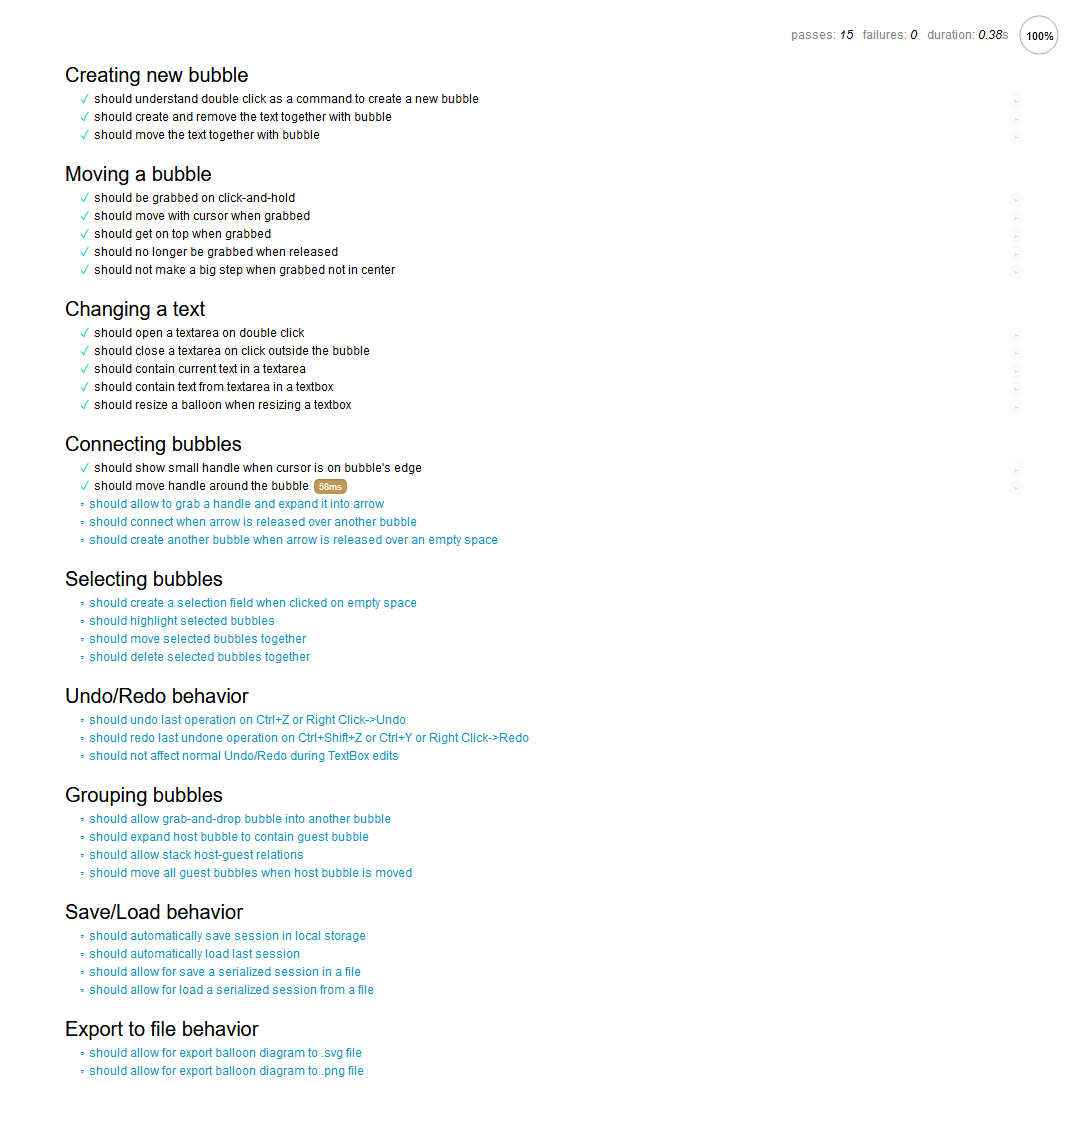
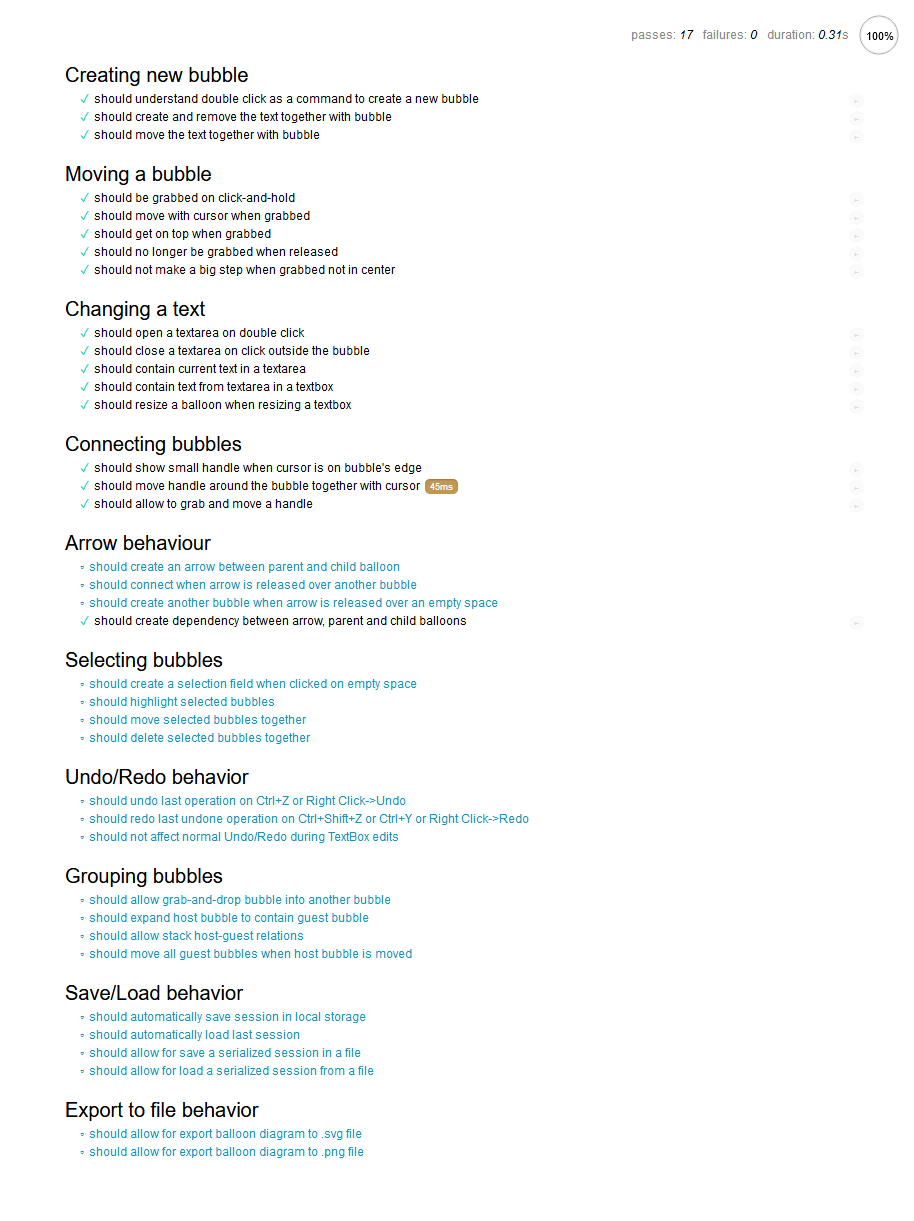
Removed imports, added arrow test

Changed region(s): [[0.0613, 0.0614, 0.5821, 0.9518], [0.7046, 0.0, 0.9803, 0.0614]]

diff --git a/test/test.js b/test/test.js
@@ -1,7 +1,4 @@
-//$.getScript('./script/main.js');
-//$.getScript('./script/space.js');
-
-$(document).scrollTop(0); //tests fail when scrolled down
+$(document).scrollTop(0); //tests fail when scrolled down
 
 var [x0, y0] = Space.screenPoint(250, 300);
 var [xx0, yy0] = Space.screenPoint(300, 50);
@@ -13,7 +10,7 @@ describe('Creating new bubble',
             () => {
                 Mouse.doubleclick(x0, y0);
                 (Balloons.getLast()).should.not.equal(null);
-                Balloons.removeLast();
+                Space.clear();
             });
 
         it('should create and remove the text together with bubble',
@@ -23,6 +20,7 @@ describe('Creating new bubble',
                 b.fO.should.not.equal(null);
                 Balloons.removeLast();
                 (b.fO == null).should.equal(true);
+                Space.clear();
             });
 
         it('should move the text together with bubble',
@@ -35,7 +33,7 @@ describe('Creating new bubble',
                 var x1 = b.fO.getAttribute('x'),
                     y1 = b.fO.getAttribute('y');
 
-                var [x3, y3, z3, t3] = b.rect();
+                var [x3, y3, ,] = b.rect();
 
                 Mouse.click(x0, y0);
                 Mouse.move(x0 + dx, y0 + dy);
@@ -43,7 +41,7 @@ describe('Creating new bubble',
                 var x2 = b.fO.getAttribute('x'),
                     y2 = b.fO.getAttribute('y');
 
-                var [x4, y4, z4, t4] = b.rect();
+                var [x4, y4, ,] = b.rect();
 
                 x1 = parseFloat(x1);
                 y1 = parseFloat(y1);
@@ -52,6 +50,7 @@ describe('Creating new bubble',
 
                 (x2 - x1).should.equal(x4 - x3);
                 (y2 - y1).should.equal(y4 - y3);
+                Space.clear();
             });
     });
 
@@ -63,7 +62,7 @@ describe('Moving a bubble',
                 Mouse.click(x0, y0);
 
                 Balloons.getLast().isGrabbed().should.equal(true);
-                Balloons.removeLast();
+                Space.clear();
             });
 
         it('should move with cursor when grabbed',
@@ -84,7 +83,7 @@ describe('Moving a bubble',
                 (x2).should.not.equal(x3);
                 (y2).should.not.equal(y3);
 
-                Balloons.removeLast();
+                Space.clear();
             });
 
         it('should get on top when grabbed',
@@ -103,9 +102,7 @@ describe('Moving a bubble',
 
                 var x2 = b2.div.attr('x');
                 x1.should.equal(x2);
-
-                Balloons.removeLast();
-                Balloons.removeLast();
+                Space.clear();
             });
 
         it('should no longer be grabbed when released',
@@ -119,31 +116,25 @@ describe('Moving a bubble',
                 var x1 = b1.div.attr('x');
                 x0.should.equal(x1);
                 b1.isGrabbed().should.equal(false);
+                Space.clear();
             });
 
         it('should not make a big step when grabbed not in center',
             () => {
                 while (Balloons.balloonsList.length > 0) Balloons.removeLast();
-
                 var b1 = Balloons.addBalloon(x0, y0);
                 var x1 = b1.div.attr('x');
-
                 Mouse.click(x0, y0);
                 Mouse.move(x0 + 50, y0);
                 Mouse.release(x0 + 50, y0);
                 var x2 = b1.div.attr('x');
-
                 var dx = 10;
-
                 Mouse.click(x0 + 50 + dx, y0);
                 Mouse.move(x0 + 100 + dx, y0);
                 var x3 = b1.div.attr('x');
-
                 var dx1 = x2 - x1, dx2 = x3 - x2;
-
                 (Math.abs(dx1 - dx2) < 5).should.equal(true);
-
-                Balloons.removeLast();
+                Space.clear();
             });
     });
 
@@ -156,7 +147,7 @@ describe('Changing a text',
                 Balloons.addBalloon(x0, y0);
                 Mouse.doubleclick(x0, y0);
                 (currentTextareaBalloon).should.not.equal(null);
-                Balloons.removeLast();
+                Space.clear();
             });
 
         it('should close a textarea on click outside the bubble',
@@ -166,7 +157,7 @@ describe('Changing a text',
                 (currentTextareaBalloon).should.not.equal(null);
                 Mouse.click(x0 + 200, y0);
                 (currentTextareaBalloon == null).should.equal(true);
-                Balloons.removeLast();
+                Space.clear();
             });
 
         it('should contain current text in a textarea',
@@ -175,7 +166,7 @@ describe('Changing a text',
                 b.fO.innerHTML = 'abc';
                 Mouse.doubleclick(x0, y0);
                 (currentTextareaBalloon.fO.childNodes[0].innerHTML).should.equal('abc');
-                Balloons.removeLast();
+                Space.clear();
             });
 
         it('should contain text from textarea in a textbox',
@@ -185,7 +176,7 @@ describe('Changing a text',
                 currentTextareaBalloon.fO.childNodes[0].innerHTML = 'abc';
                 Mouse.click(x0 + 200, y0);
                 b.fO.childNodes[0].innerHTML.should.equal('abc');
-                Balloons.removeLast();
+                Space.clear();
             });
 
         it('should resize a balloon when resizing a textbox',
@@ -198,7 +189,7 @@ describe('Changing a text',
                 currentTextareaBalloon.fO.dispatchEvent(event);
                 var w2 = b.w();
                 (w1 < w2).should.equal(true);
-                Balloons.removeLast();
+                Space.clear();
             });
     });
 
@@ -211,7 +202,7 @@ describe('Connecting bubbles',
                 Mouse.move(x0 + 60, y0 + 130);
                 Space.showHandle();
                 ($('#handle')[0].id === 'handle').should.equal(true);
-                Balloons.removeLast();
+                Space.clear();
             });
 
         it('should move handle around the bubble together with cursor',
@@ -228,8 +219,7 @@ describe('Connecting bubbles',
                 var x2 = parseFloat($('#handle')[0].getAttribute('x'));
 
                 (x1 > x2).should.equal(true);
-
-                Balloons.removeLast();
+                Space.clear();
             });
 
         it('should allow to grab and move a handle',
@@ -246,13 +236,35 @@ describe('Connecting bubbles',
                 var [x2, y2] = handle.getXY();
                 x.should.not.equal(x2);
                 y.should.not.equal(y2);
+                Space.clear();
             });
+    });
 
+describe('Arrow behaviour',
+    () => {
         it('should create an arrow between parent and child balloon');
 
         it('should connect when arrow is released over another bubble');
 
         it('should create another bubble when arrow is released over an empty space');
+
+        it('should create dependency between arrow, parent and child balloons',
+            () => {
+                var b = Balloons.addBalloon(x0, y0);
+                Mouse.move(x0 + 200, y0);
+                Balloons.showHandle();
+                var [x, y] = Balloons.handle.getXY();
+                Mouse.click(x, y);
+                Mouse.move(x + 200, y);
+                var arrow = b.childArrows[0];
+                arrow.tailBalloon.should.equal(b);
+                Mouse.release(x + 200, y);
+                var b2 = Balloons.getLast();
+                arrow.headBalloon.should.equal(b2);
+                b.childArrows[0].should.equal(arrow);
+                b.childBalloons[0].should.equal(b2);
+                Space.clear();
+            });
     });
 
 describe('Selecting bubbles',

diff --git a/hello.html b/hello.html
@@ -4,13 +4,14 @@
     <script src="https://ajax.googleapis.com/ajax/libs/angularjs/1.6.7/angular.min.js"></script>
     <link rel="stylesheet" href="https://maxcdn.bootstrapcdn.com/bootstrap/3.3.7/css/bootstrap.min.css">
     <script src="https://ajax.googleapis.com/ajax/libs/jquery/3.3.1/jquery.min.js"></script>
-    <script src="https://maxcdn.bootstrapcdn.com/bootstrap/3.3.7/js/bootstrap.min.js"></script></head>
+    <script src="https://maxcdn.bootstrapcdn.com/bootstrap/3.3.7/js/bootstrap.min.js"></script>
+</head>
 <body>
-<div>
-    <label>Name:</label>
-    <input type="text" ng-model="yourName" placeholder="Enter a name here">
-    <hr>
-    <h1>Hello {{yourName}}!</h1>
-</div>
+    <div>
+        <label>Name:</label>
+        <input type="text" ng-model="yourName" placeholder="Enter a name here">
+        <hr>
+        <h1>Hello {{yourName}}!</h1>
+    </div>
 </body>
 </html>

diff --git a/test/index.html b/test/index.html
@@ -2,6 +2,7 @@
 <html>
 <head>
     <title>Mocha Tests</title>
+    <base href="../index.html" />
     <link rel="stylesheet" href="style.css">
     <script src="https://ajax.googleapis.com/ajax/libs/jquery/3.3.1/jquery.min.js"></script>
     <script src="https://code.createjs.com/createjs-2015.11.26.min.js"></script>
@@ -18,6 +19,7 @@
          viewBox="0 0 1000 1000" preserveAspectRatio="xMinYMin">
     </svg>
     <script src="scripts/balloon.js"></script>
+    <script src="scripts/arrow.js"></script>
     <script src="scripts/point.js"></script>
     <script src="scripts/space.js"></script>
     <script src="scripts/handle.js"></script>

diff --git a/scripts/handle.js b/scripts/handle.js
@@ -1,7 +1,4 @@
-//$.getScript('/scripts/arrow.js');
-//$.getScript('./scripts/point.js');
-
-class Handle {
+class Handle {
     constructor() {
         this.arrow = null;
         this.isDragged = false;
@@ -50,6 +47,7 @@ class Handle {
         var b = this.createBalloon(x, y);
         this.parentBalloon.childBalloons.push(b);
         this.parentBalloon.childArrows.push(this.arrow);
+        this.arrow.headBalloon = b;
         this.arrow = null;
     }
 
@@ -59,6 +57,6 @@ class Handle {
     }
 
     createBalloon(x, y) {
-        Balloons.addBalloon(x, y);
+        return Balloons.addBalloon(x, y);
     }
 }

diff --git a/scripts/space.js b/scripts/space.js
@@ -1,7 +1,4 @@
-$.getScript('./scripts/arrow.js');
-//$.getScript('./scripts/point.js');
-
-var Space = {
+var Space = {
     currentElement: null,
     mouseDown: false,
     draggingBalloon: false,
@@ -118,5 +115,12 @@ var Space = {
 
     showHandle() {
         Balloons.showHandle();
+    },
+
+    clear() {
+        this.currentElement = null;
+        this.draggingBalloon = false;
+        this.draggingHandle = false;
+        Balloons.clear();
     }
 }

diff --git a/index.html b/index.html
@@ -15,7 +15,7 @@
          viewBox="0 0 800 600" preserveAspectRatio="xMinYMin">
     </svg>
     <script src="scripts/balloon.js"></script>
-    <!--<script src="scripts/arrow.js"></script>-->
+    <script src="scripts/arrow.js"></script>
     <script src="scripts/point.js"></script>
     <script src="scripts/space.js"></script>
     <script src="scripts/handle.js"></script>

diff --git a/scripts/arrow.js b/scripts/arrow.js
@@ -4,6 +4,7 @@
         [this.x1, this.y1] = p;
         this.headBalloon = null;
         this.tailBalloon = balloon;
+        balloon.childArrows.push(this);
         this.arrow = Space.s.path(this.getPathString());
         this.arrow.attr({
             stroke: 'black',

diff --git a/scripts/main.js b/scripts/main.js
@@ -1,6 +1,1 @@
-$.getScript('./scripts/balloon.js');
-//$.getScript('./scripts/point.js');
-$.getScript('./scripts/space.js');
-$.getScript('./scripts/balloons.js');
-$.getScript('./scripts/mouseEvents.js');
-$.getScript('./scripts/rounding.js');
+

diff --git a/scripts/balloon.js b/scripts/balloon.js
@@ -1,8 +1,4 @@
-//$.getScript('./scripts/point.js');
-//$.getScript('./scripts/space.js');
-//$.getScript('./scripts/textbox.js');
-
-class Balloon {
+class Balloon {
     constructor(x, y) {
         this.x = x;
         this.y = y;

diff --git a/scripts/mouseEvents.js b/scripts/mouseEvents.js
@@ -1,6 +1,4 @@
-//$.getScript('./scripts/space.js');
-
-setInterval(() => { Space.showHandle(); }, 10);
+setInterval(() => { Space.showHandle(); }, 10);
 
 $('body').contextmenu(() => { return false; });
 

diff --git a/scripts/balloons.js b/scripts/balloons.js
@@ -1,7 +1,4 @@
-//$.getScript('./scripts/handle.js');
-//$.getScript('./scripts/textbox.js');
-
-var Balloons = {
+var Balloons = {
     handle: null,
     numBalloons: 0,
     balloonsList: [],

diff --git a/scripts/point.js b/scripts/point.js
@@ -1,6 +1,4 @@
-//$.getScript('./scripts/space.js');
-
-class Point {
+class Point {
     constructor(x, y) {
         this.pt = Space.svg.createSVGPoint();
         this.pt.x = x;
